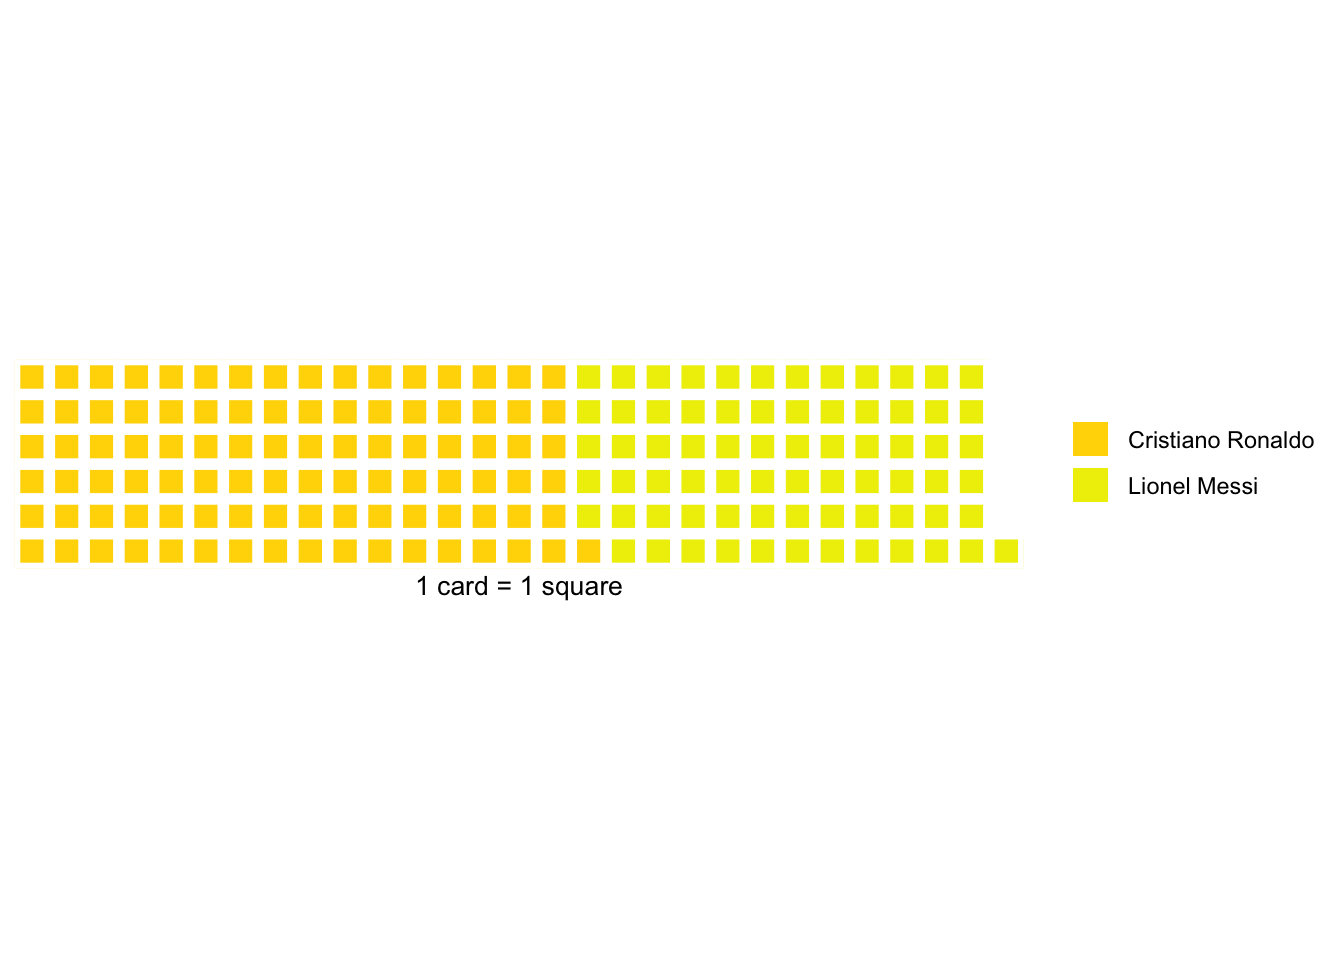
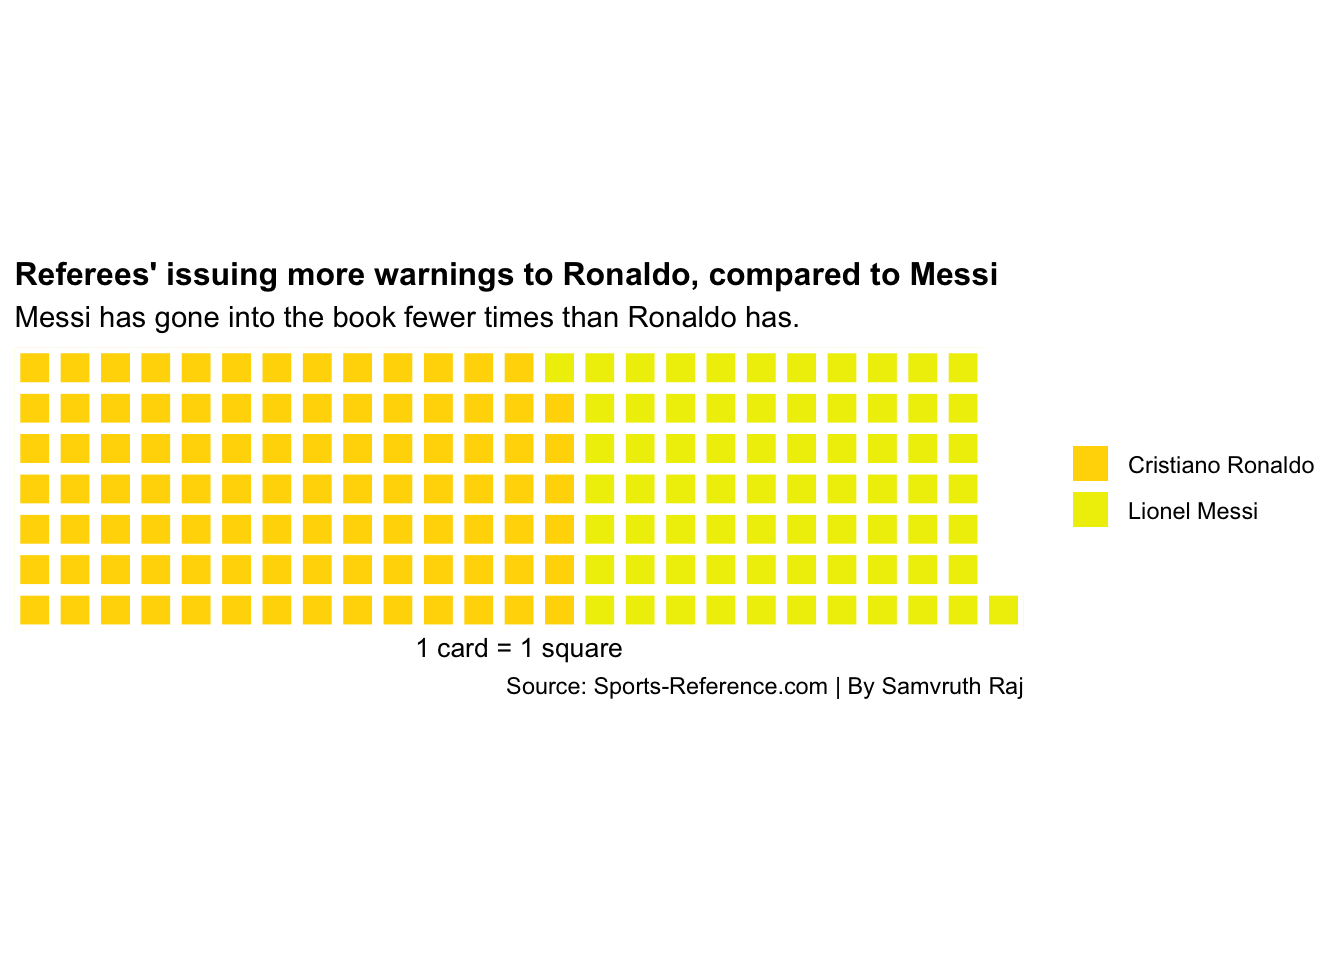
Hopefully final changes to my second project.

Changed region(s): [[0.0, 0.25, 0.7812, 0.7188], [0.7812, 0.4375, 0.9688, 0.5625]]

diff --git a/2021/04/19/cristiano-ronaldo-vs-lionel-messi-greatness-personified/index.html b/2021/04/19/cristiano-ronaldo-vs-lionel-messi-greatness-personified/index.html
@@ -62,7 +62,7 @@
 
   <article class="article">
     
-    <span class="article-duration">3 min read</span>
+    <span class="article-duration">13 min read</span>
     
 
     <h1 class="article-title">Cristiano Ronaldo vs Lionel Messi, Greatness Personified.</h1>
@@ -76,12 +76,17 @@
 <script src="/2021/04/19/cristiano-ronaldo-vs-lionel-messi-greatness-personified/index_files/header-attrs/header-attrs.js"></script>
 
 
-<p>Before the start of the 2003/2004 season, Manchester United signed Cristiano Ronaldo, at the time the most expensive teenager in English Football history,</p>
+<p>Cristiano Ronaldo and Lionel Messi are two players who have competed against each other over the past decade in world football. It is no doubt that greatness is the only word that can define both of these players. Before the start of the 2003/2004 season, Manchester United signed Cristiano Ronaldo, at that time it was reported to have been a British record for the transfer fees for a teenage player. Ronaldo wore the iconic number 7 shirt at Man United, where he became a fan favorite winning numerous trophies at the club, including one Ballon d’Or trophy. He eventually made his move to Real Madrid, on the flip side, a young Argentine boy coming up the ranks in Barcelona, who was none other than Leo Messi. Messi played for Barcelona and Ronaldo played for Madrid during the prime of their careers, this turned it to be a rivalry between both players given the fact that when Barcelona and Real Madrid play against each other, is a rivalry by itself, termed as the “El Classico.”</p>
+<p>Ronaldo and Messi have had fantastic individual careers, and like Basketball you always have the “GOAT” conversation which translates to the Greatest of All Time, when it came to Micheal Jordan or Lebron James. In world football, football fans also come up with this question all the time, between Cristiano Ronaldo and Leo Messi. Ronaldo is a right-footed player, who depended on his physical attributes while on the other hand, you have Leo Messi who is a dominant left-footed player, and the game came naturally to him, Ronaldo worked hard and Messi was a naturally gifted player. They are opposite players in terms of style, this could be one of the reasons why they matched up so well. They both are legends of this sport, given that we are in the year 2021, both of them are still doing well, although Ronaldo made his move to Juventus a few seasons ago, Well one thing that can split these two players are stats of their careers over time.</p>
+<p>Here’s a look at some data.</p>
 <pre class="r"><code>library(tidyverse)
 library(scales)
 library(ggrepel)
 library(waffle)</code></pre>
 <pre class="r"><code>Best &lt;- read_csv(&quot;goats.csv&quot;)</code></pre>
+<p>I will be using one data set, where I have pulled my data from Sports Reference’s soccer site, this mainly deals with Ronaldo’s and Messi’s statistics in terms of their goals scored across various club competitions, assists made over time, minutes played across the various seasons and the yellow and red cards they have accumulated over time.</p>
+<p>The first question that comes to anyone who watches football would be Goals, as a matter of fact, Ronaldo and Messi are attacking players. They have scored some memorable goals throughout their careers, but since we are trying to answer who is the better player, we look through their goals going back to their very first seasons as pro footballers up until their current season. This includes goals from open play and penalty goals scored.</p>
+<p>To do this, I mainly look at the age and the player and I sum up the goals of their respective careers. I also find the cumulative goals which will help tell the goals scored at what age for my first visualization.</p>
 <pre class="r"><code>goal &lt;- Best %&gt;%
   group_by(Age, Player) %&gt;%
   summarise(total = sum(Gls))  %&gt;% 
@@ -91,12 +96,13 @@ library(waffle)</code></pre>
    cumulativetotal= cumsum(total)
   )</code></pre>
 <pre><code>## `summarise()` has grouped output by &#39;Age&#39;. You can override using the `.groups` argument.</code></pre>
+<p>This brings me to my first chart, this Step chart shows you the goals scored as both the players grew in age.</p>
 <pre class="r"><code>ggplot() + 
   geom_step(data = goal, aes(x= Age, y=cumulativetotal, group = Player, color = Player)) +
   labs(x=&quot;Age&quot;, 
        y=&quot;Cumulative Goals&quot;, 
-       title=&quot;&quot;, 
-       subtitle=&quot;&quot;, 
+       title=&quot;Ronaldo just edges past Messi in career goals&quot;, 
+       subtitle=&quot;Leo Messi just lagging behind by two goals compared to Cristiano Ronaldo.&quot;, 
        caption=&quot;Source: Sports-Reference.com | By Samvruth Raj&quot;) +  
   scale_color_manual(values = c(&quot;orangered&quot;, &quot;purple1&quot;)) +
   theme_minimal() + 
@@ -106,6 +112,9 @@ library(waffle)</code></pre>
     plot.subtitle = element_text(size=10)
     )</code></pre>
 <p><img src="/2021/04/19/cristiano-ronaldo-vs-lionel-messi-greatness-personified/index_files/figure-html/unnamed-chunk-4-1.png" width="672" /></p>
+<p>Well, looking at this chart, you can see how close these two players are in terms of goals scored, with Ronaldo having two more goals. The tally for these players in terms of goals scored is Cristiano Ronaldo: 620 goals, Leo Messi: 618 goals. I also have too mention this does not include goals scored at the International level of football, which eliminates goals scored by Ronaldo for his country Portugal and goals scored by Messi for his country Argentina. Ronaldo would be ahead if we counted goals scored for their respective countries, as he is the current active footballer with the most goals for any country. Since I am worried about club football, given the fact that they play more club football than football with their national teams. This chart goes to tell the fans who have always wondered who had more goals, statistically, Ronaldo does, but it is so close!</p>
+<p>Well naturally the next question which arises, is the various club competitions. Messi has played for Barcelona (Spain) all his life, and Ronaldo has played for four different clubs which include Sporting CP (Portugal), Manchester United (England), Real Madrid (Spain), and Juventus (Italy). While Messi has just played competitions in Spain, Ronaldo has seen it all in different countries. Let us see how they match up against each other in club competitions.</p>
+<p>To do this, I pick out the age, player, and competition type this would help segregate the competitions by type, for example, Domestic competitions would be Premier League, La Liga. Cup competitions for example would be the Copa Del Rey and the FA cup.</p>
 <pre class="r"><code>Comp &lt;- Best %&gt;%
   group_by(Age, Player, CompType) %&gt;%
   summarise(total = sum(Gls))  %&gt;% 
@@ -115,15 +124,16 @@ library(waffle)</code></pre>
    cumulativetotal= cumsum(total)
   )</code></pre>
 <pre><code>## `summarise()` has grouped output by &#39;Age&#39;, &#39;Player&#39;. You can override using the `.groups` argument.</code></pre>
+<p>This is a Facet wrap, which includes small step charts for each competition.</p>
 <pre class="r"><code>ggplot() + 
   geom_step(data = Comp , aes(x= Age, y=cumulativetotal, group = Player, color = Player)) +
   facet_wrap(.~CompType) +
   labs(x=&quot;Age&quot;, 
-       y=&quot;Cumulative Goals across competitions&quot;, 
-       title=&quot;&quot;, 
-       subtitle=&quot;&quot;, 
+       y=&quot;Cumulative Goals&quot;, 
+       title=&quot;Ronaldo storms through Messi in Champions League goals and Domestic goals&quot;, 
+       subtitle=&quot;While Messi having the upper-hand in goals scored in Cup competitions.&quot;, 
        caption=&quot;Source: Sports-Reference.com | By Samvruth Raj&quot;) +  
-  scale_color_manual(values = c(&quot;black&quot;, &quot;#EDBB00&quot;)) +
+  scale_color_manual(values = c(&quot;orangered&quot;, &quot;purple1&quot;)) +
   theme_minimal() + 
   theme(
     plot.title = element_text(size = 12, face = &quot;bold&quot;),
@@ -131,19 +141,24 @@ library(waffle)</code></pre>
     plot.subtitle = element_text(size=10), 
     )</code></pre>
 <p><img src="/2021/04/19/cristiano-ronaldo-vs-lionel-messi-greatness-personified/index_files/figure-html/unnamed-chunk-6-1.png" width="672" /></p>
+<p>This chart shows the goals scored across the competitions, While Ronaldo has a front foot in the Domestic Leagues and the Champions League, Messi is ahead on the Domestic Cup competitions.</p>
+<p>Moving on from goals, another important statistic in football are assists. These are passes, crosses, or plays that help you score goals. Without an assist, there are no goals, unless it is a Penalty or Direct free-kick scored.</p>
+<p>Fans often say “Ronaldo is a greedy player,” “he wants to score all the goals,” and on the other hand “Messi provides for his team,” “He’s more of a team player,” Well, let’s put that to the test. Ronaldo plays an attacking position, which should result in more goals than assists, and Messi has played different positions, he is played as a right-winger and also played in the midfield, this means he would provide for his team and score, but let us see who has more assists over each other.</p>
+<p>To do this, I start picking their ages and the two player’s and add up the assists over time.</p>
 <pre class="r"><code>Assists &lt;- Best %&gt;%
   group_by(Age, Player) %&gt;%
   summarise(total = sum(Ast)) %&gt;% 
   drop_na()</code></pre>
 <pre><code>## `summarise()` has grouped output by &#39;Age&#39;. You can override using the `.groups` argument.</code></pre>
+<p>This brings me to my third chart, a Line chart that shows their ages and assists provided over a period of time.</p>
 <pre class="r"><code>ggplot() + 
   geom_line(data = Assists , aes(x= Age, y=total, group = Player, color = Player))+
   labs(x=&quot;Age&quot;, 
        y=&quot;Assists&quot;, 
-       title=&quot;&quot;, 
-       subtitle=&quot;&quot;, 
+       title=&quot;Leo Messi miles ahead in being the better teammate&quot;, 
+       subtitle=&quot;While Ronaldo loves his goals, Messi loves an assist and a goal.&quot;, 
        caption=&quot;Source: Sports-Reference.com | By Samvruth Raj&quot;) +  
-  scale_color_manual(values = c(&quot;black&quot;, &quot;#EDBB00&quot;)) +
+  scale_color_manual(values = c(&quot;orangered&quot;, &quot;purple1&quot;)) +
   theme_minimal() + 
   theme(
     plot.title = element_text(size = 12, face = &quot;bold&quot;),
@@ -151,21 +166,26 @@ library(waffle)</code></pre>
     plot.subtitle = element_text(size=10),
     )</code></pre>
 <p><img src="/2021/04/19/cristiano-ronaldo-vs-lionel-messi-greatness-personified/index_files/figure-html/unnamed-chunk-8-1.png" width="672" /></p>
+<p>This should not be a surprise, given the fact Ronaldo is more of a goal scorer. Messi as I have stated above has played different positions and has had more assists throughout his career. The exact number would be Ronaldo: 192 assists, Leo Messi: 251 assists. This chart shows you at what age vs the number of assists provided based on the age of the player. Is it safe to say Ronaldo is greedy? or Messi is a team player. My answer would be yes, but that does not define whose an overall better player.</p>
+<p>Moving Further,</p>
+<p>Given both of these players’ current ages Ronaldo: 36 years, and Messi: 33 years. I wanted to see how many minutes they have played over each age of their careers. This by no means is to compare which player has more minutes and he is better. This helps understand and compare their overall respective careers for both of these players.</p>
+<p>To do this, as usual, I pick up both the players and then their ages and sum up the minutes played.</p>
 <pre class="r"><code>MP &lt;- Best %&gt;%
   group_by(Age, Player) %&gt;%
   summarise(total = sum(Min))  %&gt;% 
   arrange(Player)</code></pre>
 <pre><code>## `summarise()` has grouped output by &#39;Age&#39;. You can override using the `.groups` argument.</code></pre>
+<p>This is a Line chart based on minutes played at what age.</p>
 <pre class="r"><code>ggplot() + 
   geom_line(data = MP, aes(x= Age, y=total, group = Player, color = Player))+
-  geom_text(aes(x=25, y=2500, label= &quot;injuries/DNP&quot;), color = &quot;blue&quot;, size = 3.5) +
+  geom_text(aes(x=25, y=2500, label= &quot;injuries/DNP&quot;), color = &quot;lightseagreen&quot;, size = 3.5) +
   scale_y_continuous(labels = comma) +
   labs(x=&quot;Age&quot;, 
        y=&quot;Minutes Played&quot;, 
-       title=&quot;&quot;, 
-       subtitle=&quot;&quot;, 
+       title=&quot;Messi and Ronaldo playing more minutes as they grow in age&quot;, 
+       subtitle=&quot;With Ronaldo playing more minutes overall given that he is three years the senior.&quot;, 
        caption=&quot;Source: Sports-Reference.com | By Samvruth Raj&quot;) +  
-  scale_color_manual(values = c(&quot;black&quot;, &quot;#EDBB00&quot;)) +
+  scale_color_manual(values = c(&quot;orangered&quot;, &quot;purple1&quot;)) +
   theme_minimal() + 
   theme(
     plot.title = element_text(size = 12, face = &quot;bold&quot;),
@@ -173,26 +193,51 @@ library(waffle)</code></pre>
     plot.subtitle = element_text(size=10)
     )</code></pre>
 <p><img src="/2021/04/19/cristiano-ronaldo-vs-lionel-messi-greatness-personified/index_files/figure-html/unnamed-chunk-10-1.png" width="672" /></p>
+<p>Given the caliber of both these players, this is a very close chart. There are a few dips that can account for injuries or they just did not play (DNP) as many games early on in their careers. The total number of minutes played by these respective players are Cristiano Ronaldo: 65,437 minutes and Leo Messi: 57,903 minutes played, hopefully, many more to come. This is a mere comparison of the minutes played because you would expect them to play each and every single match. Ronaldo has the upper hand, as he started playing before Messi and his three years older as well.</p>
+<p>The final comparison I am going to look at is the accumulation of suspensions, in terms of Yellow and Red Cards from the start of their careers until the present. While this can be one of the most debated topics about the referee giving out a Yellow or Red card, let’s see who has more bookings to their name in the referee’s books. This cannot be justified as the referee never talks about the decisions they make. This is just a comparison so that people have an idea, and again this cannot prove whose the better player. This can make an argument of who the more heated player on the pitch.</p>
+<p>To do this, I first pick the players, and sum up the red and yellow cards for each player, their age is not significant in this comparison as we are looking over time and only want the total number of cards.</p>
 <pre class="r"><code>RedYellow &lt;- Best %&gt;% 
   group_by(Player) %&gt;% 
   summarise(Redtotal = sum(CrdR),
             YellowTotal = sum(CrdY))</code></pre>
 <pre class="r"><code>red &lt;- c(&quot;Cristiano Ronaldo&quot; = 10, &quot;Lionel Messi&quot; = 1)
 yellow &lt;- c(&quot;Cristiano Ronaldo&quot; = 97, &quot;Lionel Messi&quot; = 72)</code></pre>
+<p>The next two charts are waffle charts showing the Yellow and Red Cards received by Cristiano Ronaldo and Leo Messi.</p>
 <pre class="r"><code>waffle(
   red,
   rows = 2,
   xlab = &quot;1 card = 1 square&quot;,
   color = c(&quot;firebrick1&quot;, &quot;red3&quot;)
+    ) +
+  labs( 
+       title=&quot;Ronaldo has seen the locker room more than Leo Messi during matches&quot;, 
+       subtitle=&quot;Messi has been sent off only once, compared to Ronaldo who has been sent off ten times.&quot;, 
+       caption=&quot;Source: Sports-Reference.com | By Samvruth Raj&quot;) +
+  theme(
+    plot.title = element_text(size = 12, face = &quot;bold&quot;),
+    axis.title = element_text(size = 9), 
     )</code></pre>
 <p><img src="/2021/04/19/cristiano-ronaldo-vs-lionel-messi-greatness-personified/index_files/figure-html/unnamed-chunk-13-1.png" width="672" /></p>
+<p>The first waffle chart shows the number of red cards for both the players, a red card is a card shown by a referee to a player in a match when there is extreme foul play. Ronaldo has 10 red cards to his name in club competitions while Messi just has one red card. A red card can ban you for the next game or the next three games depending on if it was a straight red or two yellow cards which converts into a red card. A straight red card bans you for three games, while two yellow cards in the same game convert into a red card can ban you for one game. This means Ronaldo has left the pitch 10 times, compared to Messi which was just once. A red card is rare and can be given only in extreme conditions, however, Yellow cards are much more frequently given. To make it clear, Ronaldo is represented by the lighter red color, while Messi is represented with the darker red color.</p>
+<p>Further on, Yellow cards.</p>
 <pre class="r"><code>waffle(
   yellow,
-  rows = 6,
+  rows = 7,
   xlab = &quot;1 card = 1 square&quot;,
   color = c(&quot;gold&quot;, &quot;yellow2&quot;)
-  ) </code></pre>
+  ) +
+  labs( 
+       title=&quot;Referees&#39; issuing more warnings to Ronaldo, compared to Messi&quot;, 
+       subtitle=&quot;Messi has gone into the book fewer times than Ronaldo has.&quot;, 
+       caption=&quot;Source: Sports-Reference.com | By Samvruth Raj&quot;)+
+  theme(
+    plot.title = element_text(size = 12, face = &quot;bold&quot;),
+    axis.title = element_text(size = 9), 
+    )</code></pre>
 <p><img src="/2021/04/19/cristiano-ronaldo-vs-lionel-messi-greatness-personified/index_files/figure-html/unnamed-chunk-14-1.png" width="672" /></p>
+<p>This is the second waffle chart, this shows the number of yellow cards for both the players. A yellow card is deemed as a warning after collecting a few fouls, this is the initial warning to a player. Once a player is on a yellow card he/she must be cautious as another yellow card can convert to a red card, this sees you out of the match and you are likely to be banned for the next match. Ronaldo has received 97 yellow cards, while Messi has received 72 yellow cards respectively. To make it clear, Ronaldo is represented by the darker yellow color, while Messi is represented with the lighter yellow color.</p>
+<p>From both of the waffle charts, Ronaldo has more red/yellow cards throughout his career compared to Messi. Some might argue he is the more heated player, but the truth is the referee’s also make mistakes and sometimes the cards received by players are not completely justified.</p>
+<p>Well looking at my whole analysis, here comes the question, who is the better player? it is very close. They are both great players of our generation and instead of constantly comparing the two players. let’s take a moment to appreciate the greatness. Both the players have won every trophy that is there to win at club football. They have strong personal accolades as well, Leo Messi has won the Ballon d’Or trophy six times and Cristiano Ronaldo has won the Ballon d’Or trophy five times. A Ballon d’Or is a trophy that is presented to the player who performs the best in the previous season. Although Messi has won it a record six times, Ronaldo has won it five times and yet again this is a close statistic. Given the ages of both the players, Ronaldo who is 36, and Messi who is 33. Let’s make the most while they are still playing the sport of football then try and compare them. With the emerging lights of Kylian Mbappe and Erling Haaland, who might take the next center stage in world football, let us appreciate Cristiano Ronaldo and Lionel Messi while we still can, and I am sure every fan would like to see both of them play together on the same team, it is a long shot, but anything can happen in football.</p>
 
     </div>
   </article>
